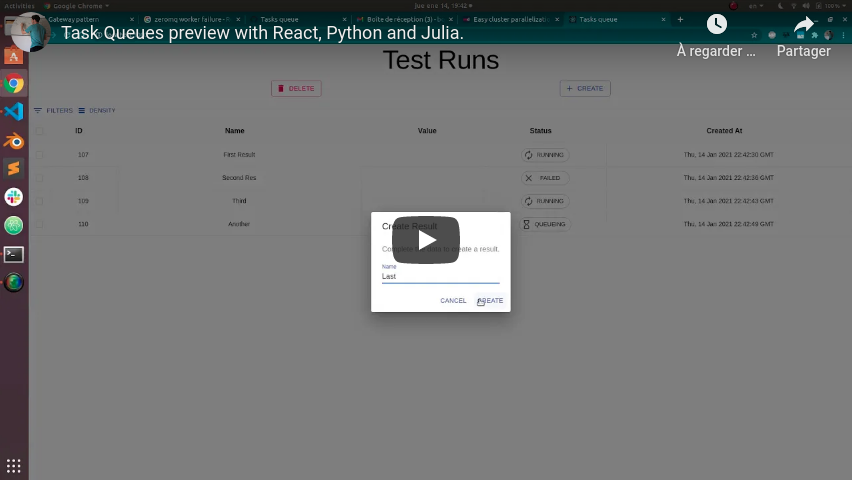
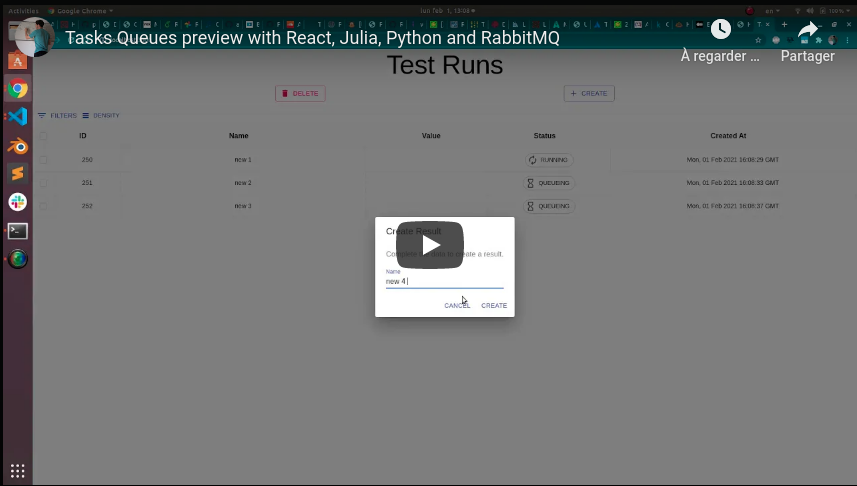
modified readme file

diff --git a/README.md b/README.md
@@ -8,33 +8,27 @@
 
 The frontend ([`React.js`](reactjs.org)) will generate a request (through [`GraphQL`](https://graphql.org/) endpoints) to the backend in order to create new tasks. The backend (`Django`) will respond with a task item scheduled for running which is seen in the table with a `QUEUEING` status. 
 
-![imag](./assets/stack.png)
+[![imag](./assets/stack.png)](creately.com)
 
-**Figure 2**. General idea of the stack implemented.
+**Figure 2**. Simplified design of the stack implemented.
 
-[`ZMQ`](https://zeromq.org/) now handles the distribution of one or several tasks (which may be created by one or several users) using the `Load Balancing` design pattern shown below. One of the clients is the Django backend whom creates the tasks by creating a request `REQ` to the Load Balancer `Proxy`. Then this Proxy distributes the work to the `Julia` workers with less work. When a certain task is set to run its status changes to `RUNNING`. Right now two things can happen:
+[`RabbitMQ`](https://www.rabbitmq.com/) now handles the distribution of one or several tasks (which may be created by one or several users) using the `Work Queue` design pattern shown below. One of the clients is the `Django` backend whom creates the tasks by pushing a json payload to a queue into the RabbitMQ Server. Then this message system distributes the work to the `Julia` workers. When a certain task is set to run its status changes to `RUNNING`. Right now two things can happen:
 
-- The task fails with `FAILED` status. Currently in this project we make 40% of the tasks to fail just for illustration.
+- The task fails with `FAILED` status. Currently in this project we make *40%* of the tasks to fail just for illustration.
 
-- The task completes with `FINISHED` status. In this case the result is pushed to a `Sink`. This sink in the future might preserve the results in a separate database. Later, the sink mutates the backend status with the calculated value.
+- The task completes with `FINISHED` status. In this case the result is pushed to a `Sink`. This sink in the future might preserve the results in a separate database. Later, the sink mutates the django backend status with the calculated value.
 
-![imag](https://zguide.zeromq.org/images/fig32.png)
+![rabbit](./assets/rabbit.jpg)
 
-**Figure 3**. Load Balancing pattern used in the project to queue tasks.
+**Figure 3**. [Work queue](https://www.rabbitmq.com/tutorials/tutorial-two-python.html) pattern used in the project to queue tasks.
 
 Finally, a long polling connection between the frontend and the backend is made so the results are updated in a table.
 
-As a side note, this `Load Balancing` pattern allowes us to recover the tasks assigned to a worker in case it is shut down for some reason and assign them to other free workers or remain in memory if all the workers are busy.
+As a side note, this pattern allowes us to recover the tasks assigned to a worker in case it is shut down for some reason and assign them to other free workers or remain in memory if all the workers are busy.
 
 Below, there is a small video showcasing the project capabilities.
 
-[![Video Preview](./assets/preview_video.png)](https://youtu.be/iDR7H2wmgDc)
-
-# Future improvements
-
-- Use the [`Titanic`](https://zguide.zeromq.org/docs/chapter4/#Disconnected-Reliability-Titanic-Pattern) pattern for recovery of the Load Balancing Proxy.
-
-- Use the [`Paranoid Pirate`](https://zguide.zeromq.org/docs/chapter4/#Robust-Reliable-Queuing-Paranoid-Pirate-Pattern) pattern for reliable connection between workers with heartbeating.
+[![Video Preview](./assets/preview_video.png)](https://youtu.be/RxngReKfaWk)
 
 # Instructions 
 
@@ -52,22 +46,14 @@ instantiate
 
 and repeat the process inside the `Sink` folder.
 
-2. Install `Proxy` dependencies
-
-```sh
-cd results/Proxy
-pipenv shell
-pipenv install
-```
-
-3. Install `frontend` dependencies
+2. Install `frontend` dependencies
 
 ```sh
 cd frontend
 npm run install
 ```
 
-4. Install `backend` dependencies
+3. Install `backend` dependencies
 
 ```sh
 cd backend
